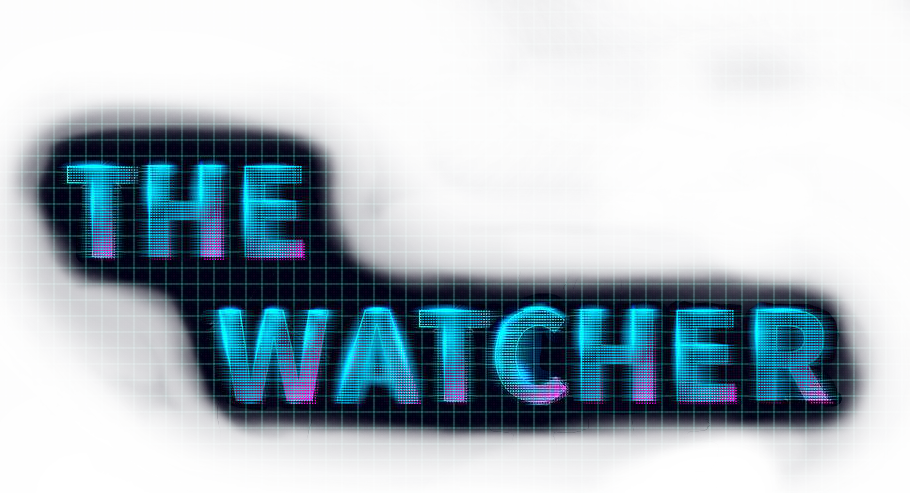
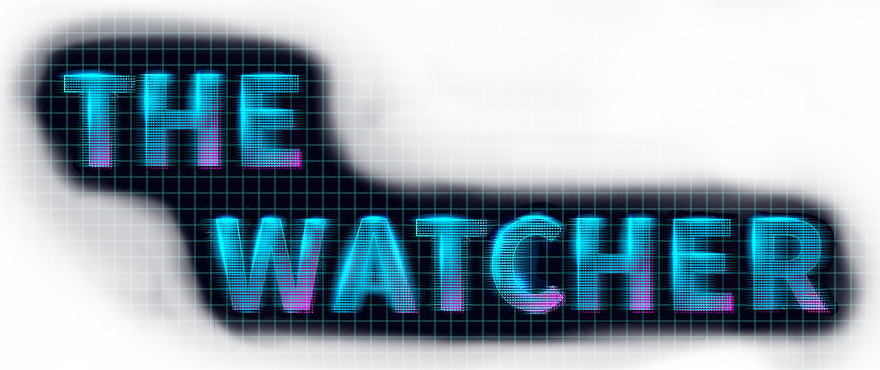
Remove unused file, crop title

diff --git a/src/scenes/TitleScene.js b/src/scenes/TitleScene.js
@@ -13,7 +13,7 @@ export default class TitleScene extends Phaser.Scene {
         this.anims.create({key: 'starfield', frames: this.anims.generateFrameNames('splashBg'), repeat: -1, frameRate: 60})
         this.add.sprite(450, 300, 'splashBg').setDisplaySize(900, 600).play('starfield')
 
-        this.add.image(450, 110, 'titleWatcher')
+        this.add.image(450, 140, 'titleWatcher')
         const english = this.add.sprite(450, 380, 'splashLanguages', 'english');
         const italian = this.add.sprite(450, 420, 'splashLanguages', 'italian');
         english.setInteractive({ useHandCursor: true })
